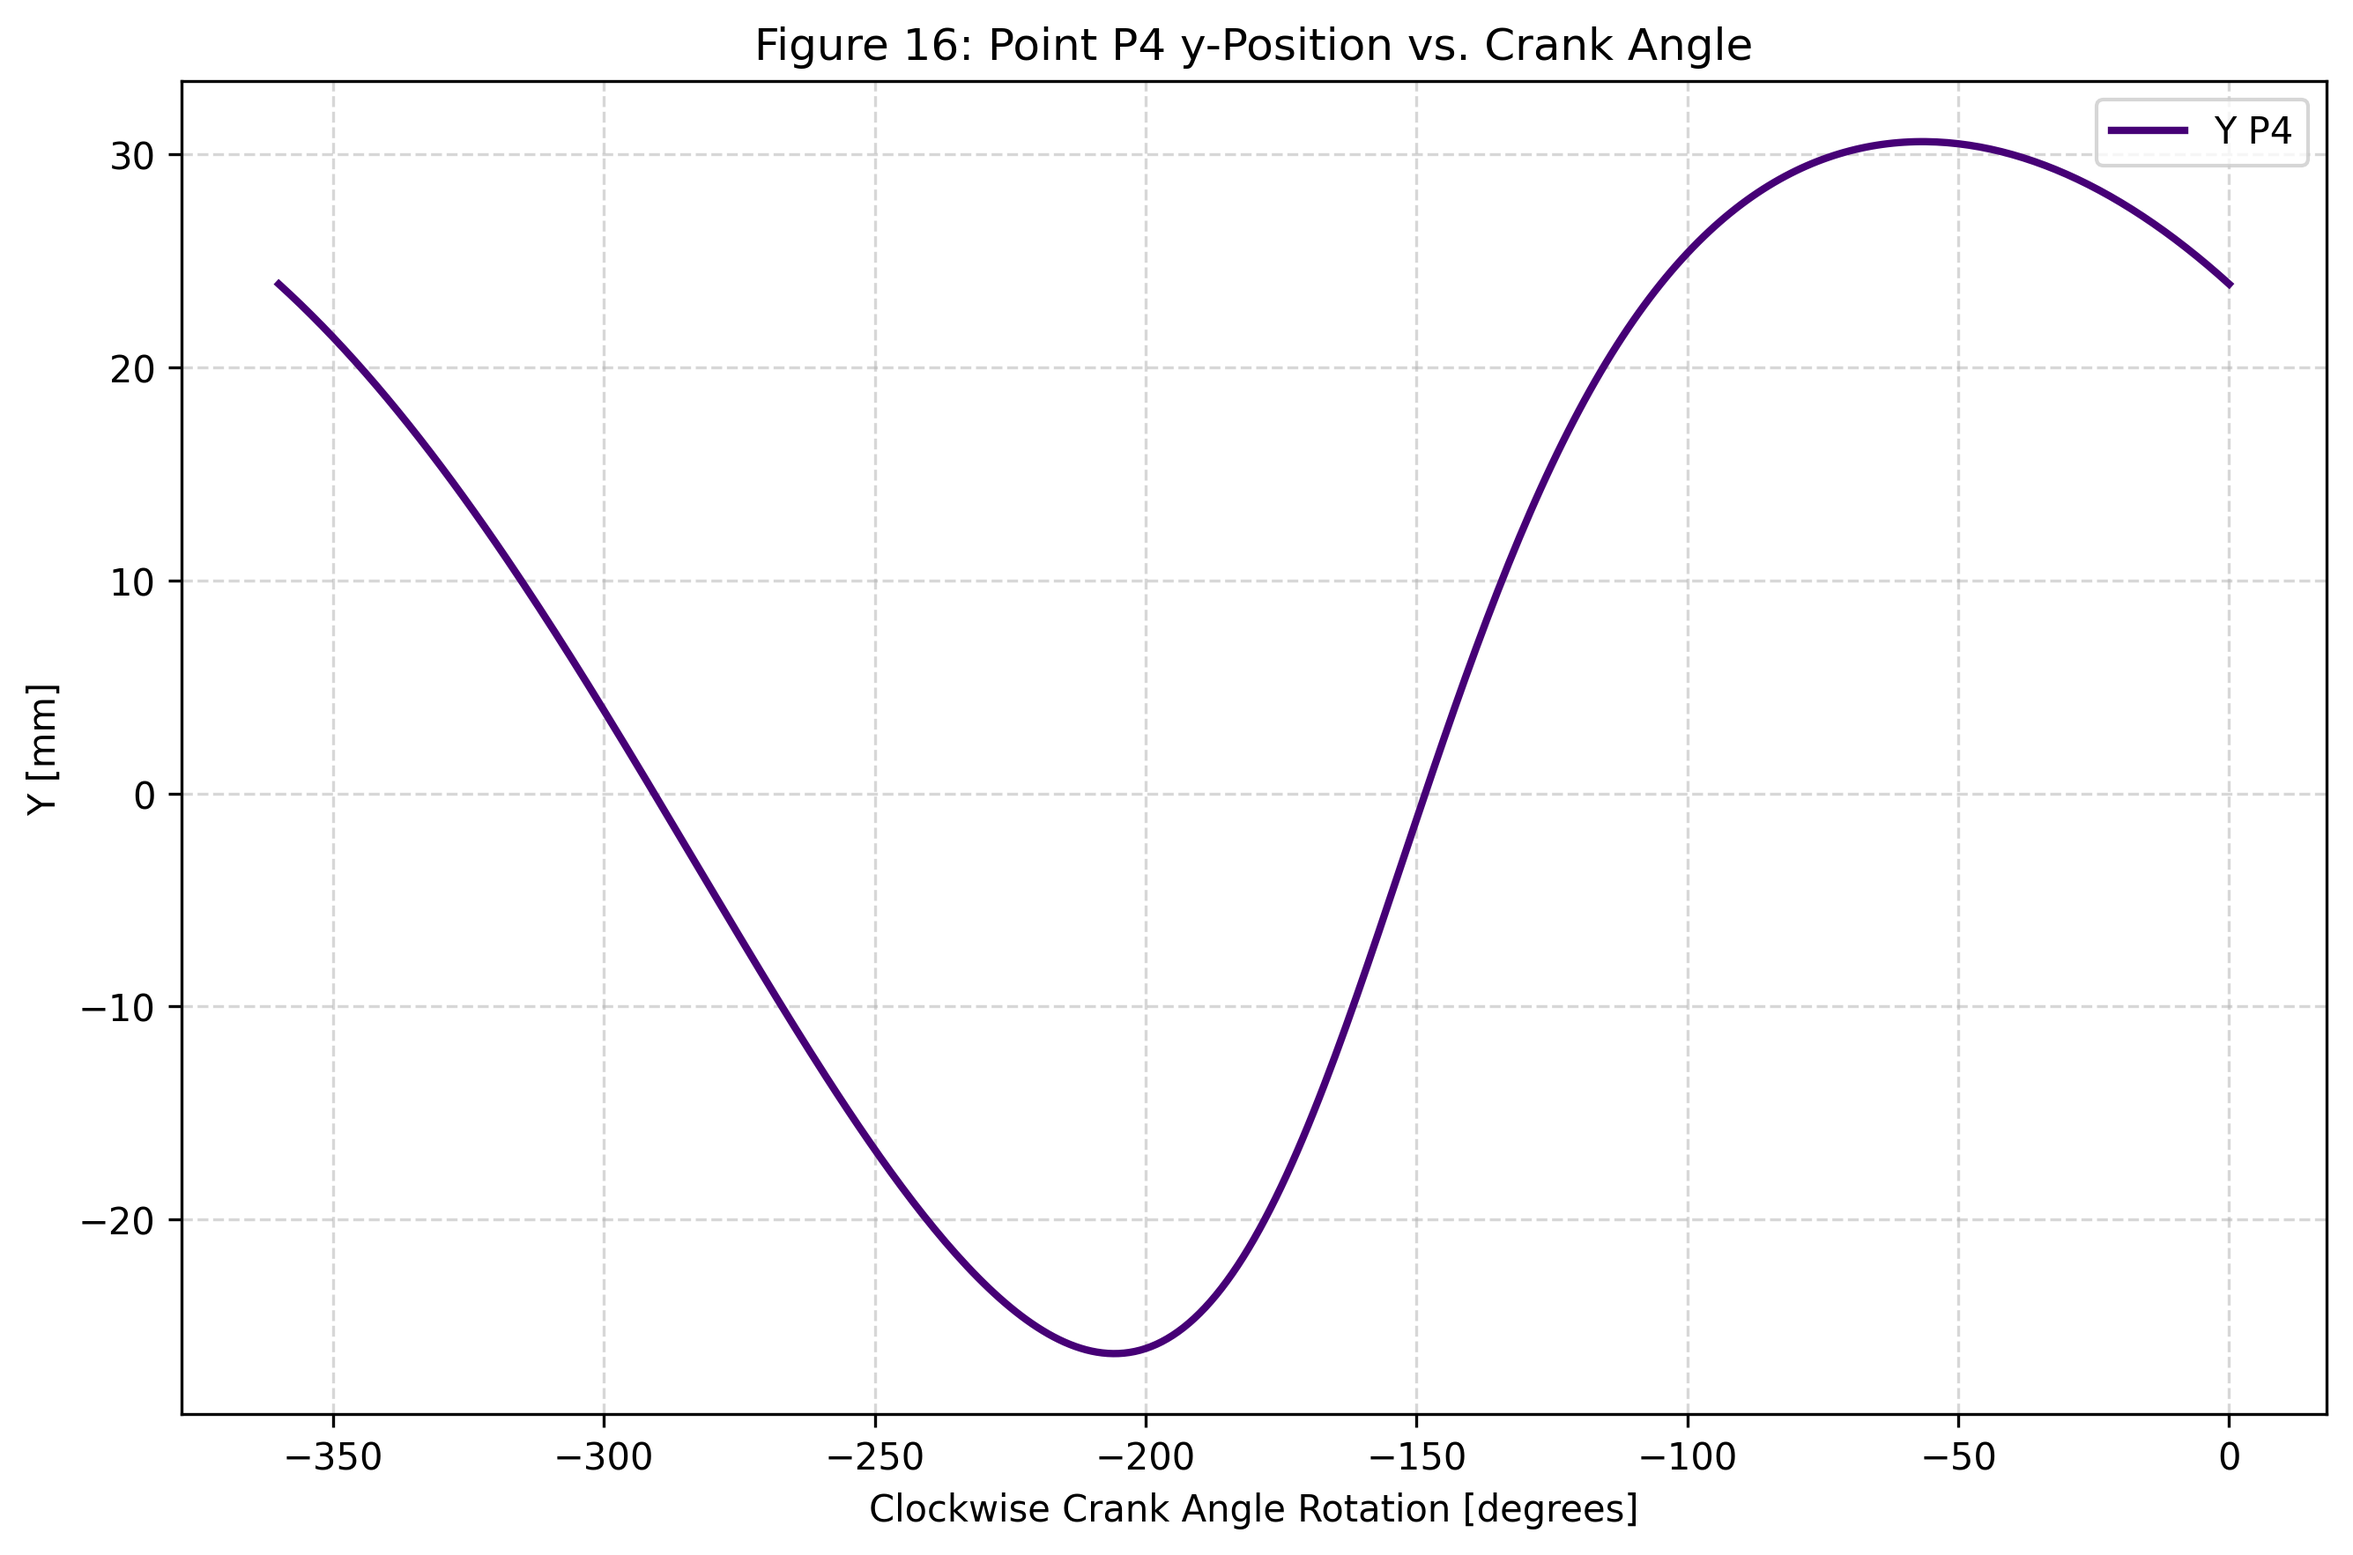
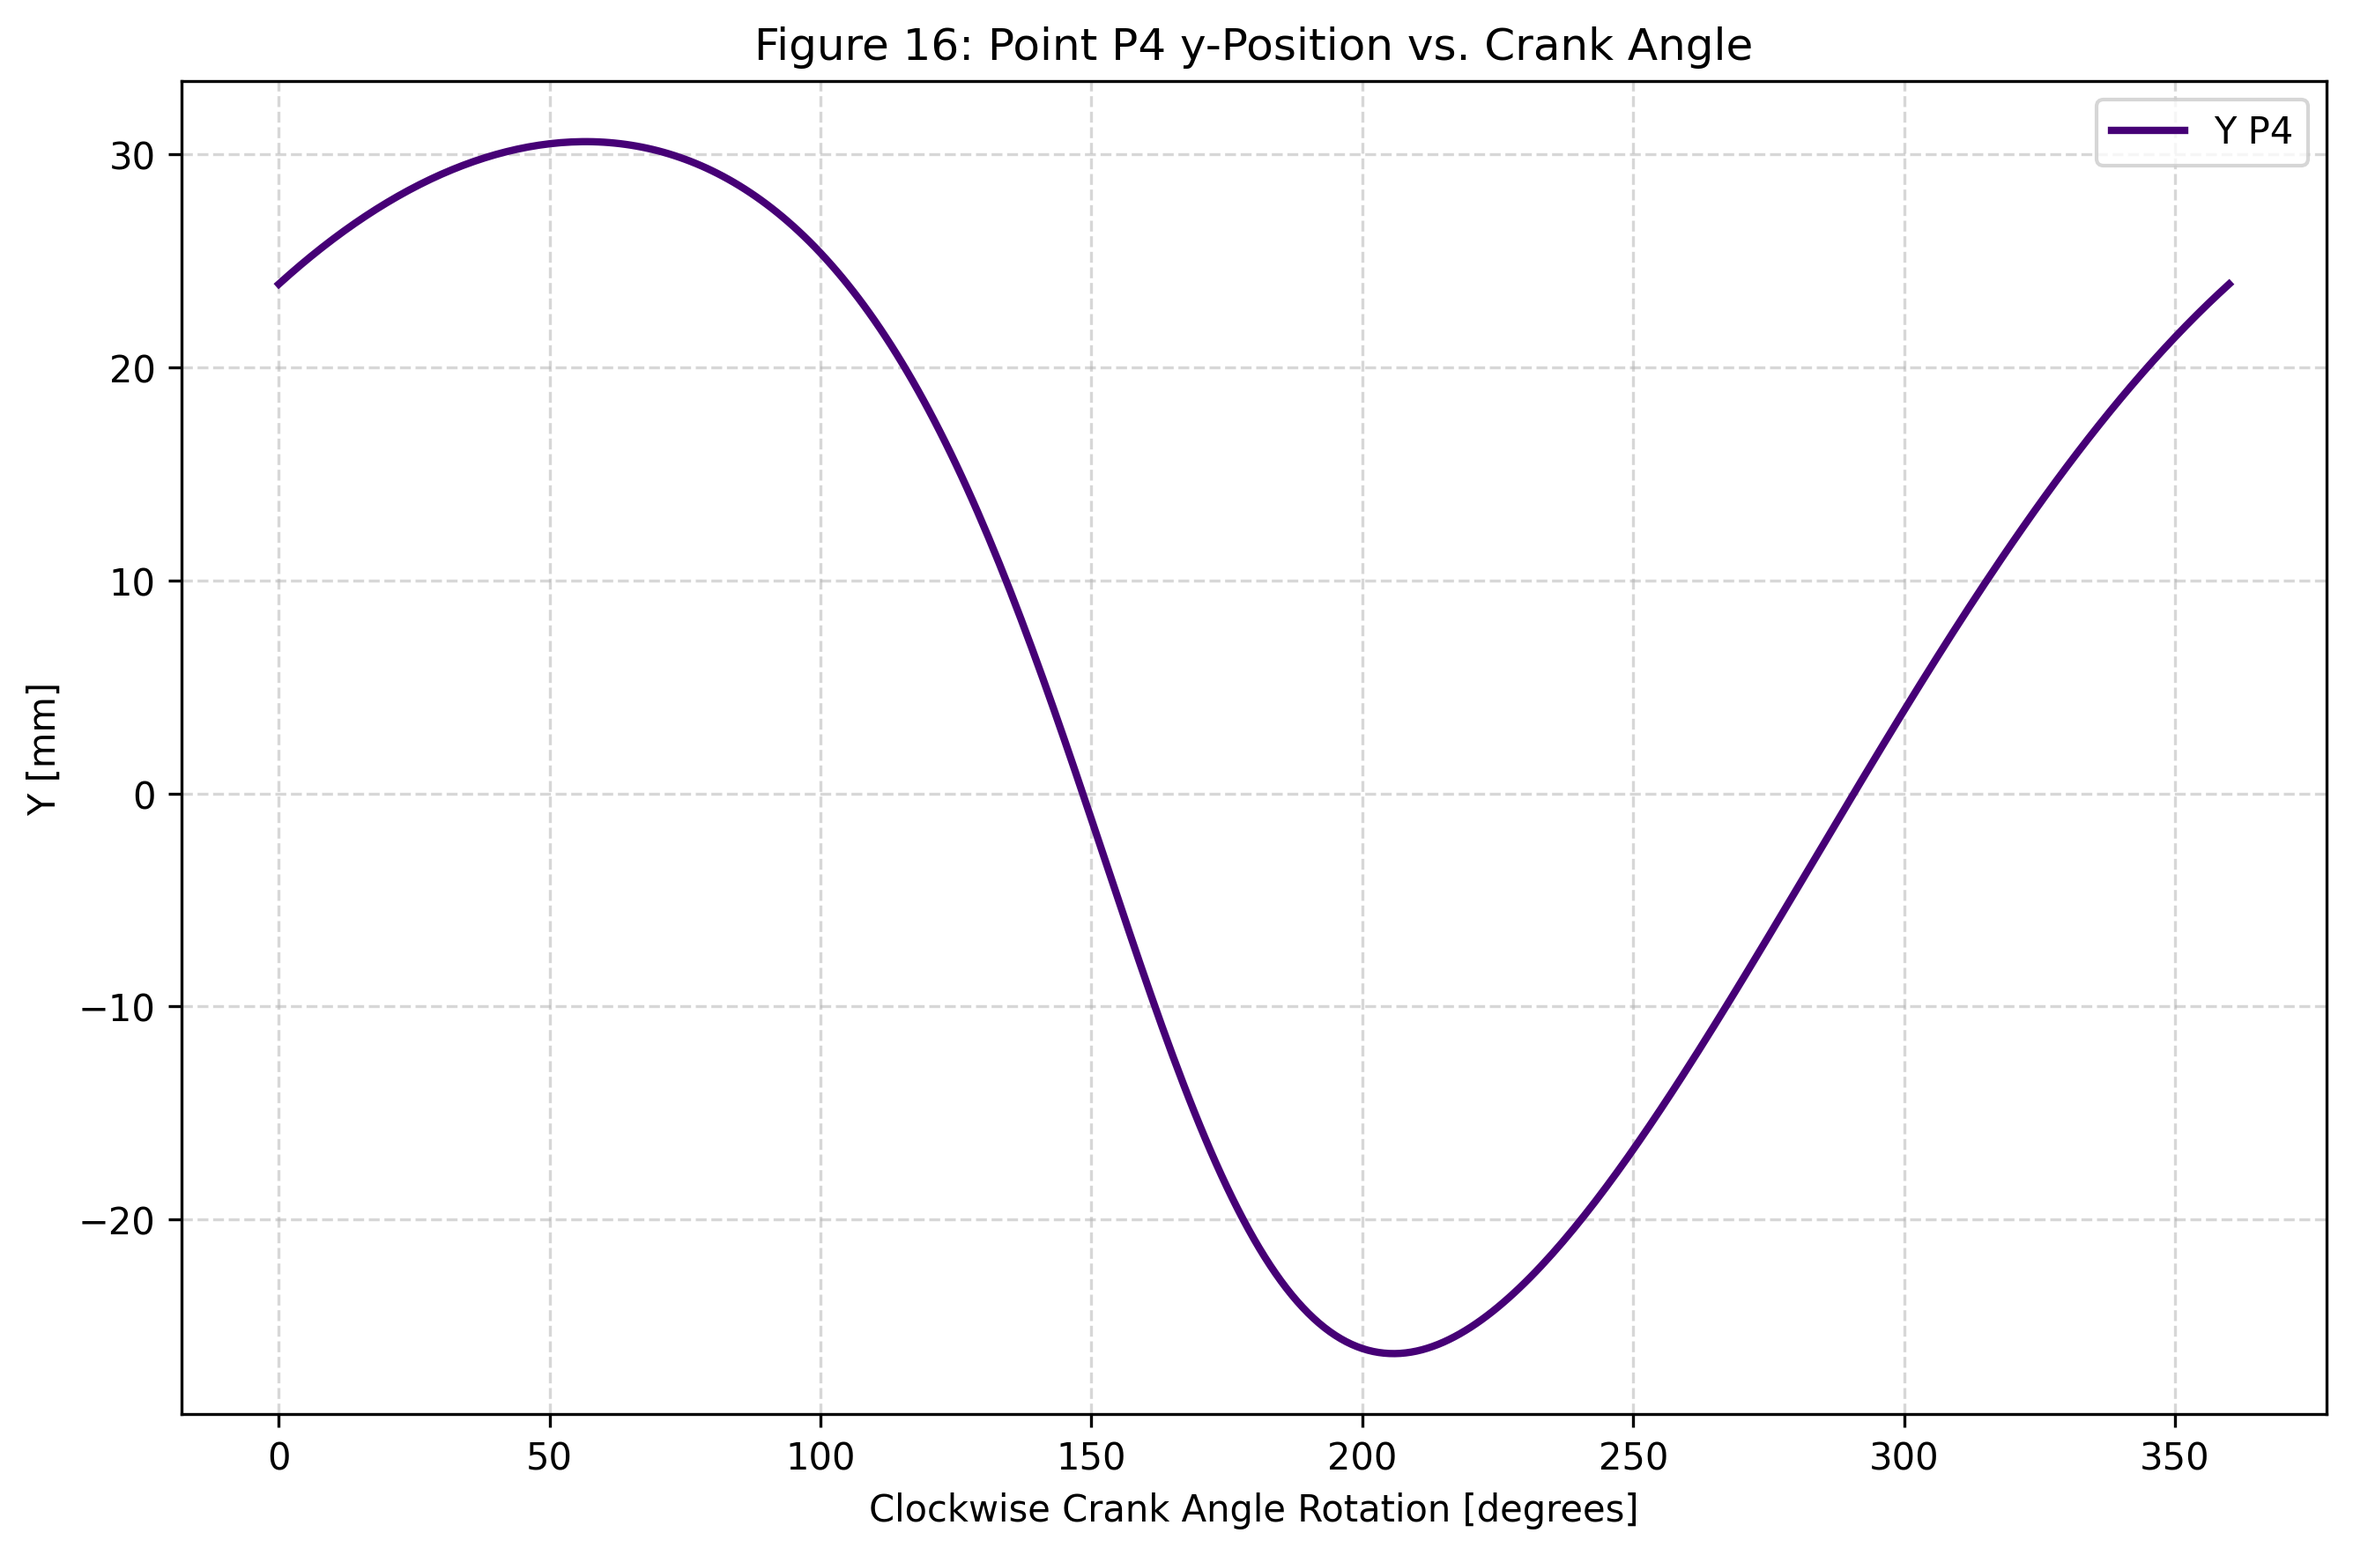
Updated graphs to  go from 0 to 360 for simplicity

diff --git a/lib/_Velocity.py b/lib/_Velocity.py
@@ -59,6 +59,8 @@ def create_velocity_figures(array_V1 : np.ndarray, crank_angle_plot: np.ndarray)
     # * Create Velocity Figures for Each Point *
     v1_figures(figure_path, figure_names, array_V1, crank_angle_plot)
     
+    return figure_path, figure_names
+    
     
 def v1_figures(figure_path : list, figure_names : list, array_V1 : np.ndarray, crank_angle_plot : np.ndarray) -> None:
     """
@@ -71,9 +73,9 @@ def v1_figures(figure_path : list, figure_names : list, array_V1 : np.ndarray, c
         crank_angle_plot (np.ndarray): Array of crank angles for plotting.
     """
     # ! Velocity Figures for Point P1 !
-    v1_x_figure = _plot.plot_velocity_figure(crank_angle_plot, array_V1[:, 0], 0, "P1", "Velocity of Point P1 vs Crank Angle (x-component)")
-    v1_y_figure = _plot.plot_velocity_figure(crank_angle_plot, array_V1[:, 1], 1, "P1", "Velocity of Point P1 vs Crank Angle (y-component)")
-    v1_speed_figure = _plot.plot_velocity_figure(crank_angle_plot, array_V1, 2, "P1", "Speed of Point P1 vs Crank Angle")
+    v1_x_figure = _plot.plot_velocity_figure(crank_angle_plot, array_V1, 0, "P1", "Velocity of Point P1 vs Crank Angle (x-component)")
+    v1_y_figure = _plot.plot_velocity_figure(crank_angle_plot, array_V1, 1, "P1", "Velocity of Point P1 vs Crank Angle (y-component)")
+    v1_speed_figure = _plot.plot_speed_figure(crank_angle_plot, array_V1, "P1", "Speed of Point P1 vs Crank Angle")
     
     
     # Append V1 Figures to Figure Path

diff --git a/Main.py b/Main.py
@@ -78,7 +78,7 @@ O2 = np.array([0.0, 0.0])
 O4 = np.array([LINK_A, LINK_L]) 
 
 # Figures Aesthetics Tweaks
-CRANK_ANGLE_PLOT = np.linspace(0, CRANK_ANGLE - 360, NUM_STEPS)  
+CRANK_ANGLE_PLOT = np.linspace(0, CRANK_ANGLE + 360, NUM_STEPS)  
 
 # * FUNCTION *
 # ? ================================================================ ?
@@ -173,7 +173,7 @@ def main():
     
     
     # ! Create Position Figures for Each Point !
-    # position_path, position_names = _position.create_position_figures(O2, O4, array_P1, array_P2, array_P4, array_P5, array_P6, array_P7, CRANK_ANGLE_PLOT)
+    position_path, position_names = _position.create_position_figures(O2, O4, array_P1, array_P2, array_P4, array_P5, array_P6, array_P7, CRANK_ANGLE_PLOT)
     
     # ! Create Velocity Figures for Each Point !
     velocity_path, velocity_names = _velocity.create_velocity_figures(array_V1, CRANK_ANGLE_PLOT)

diff --git a/lib/_Plot.py b/lib/_Plot.py
@@ -291,7 +291,7 @@ def plot_velocity_figure(theta_array : np.ndarray, velocity_array : np.ndarray, 
     return velocity_figure
 
 
-def plot_speed_figure(theta_array : np.ndarray, velocity_array : np.ndarray, coordinate_index : int,
+def plot_speed_figure(theta_array : np.ndarray, velocity_array : np.ndarray,
                          point_label : str, title : str) -> pl.figure:
     """
     General function for plotting speed vs. crank angle.
